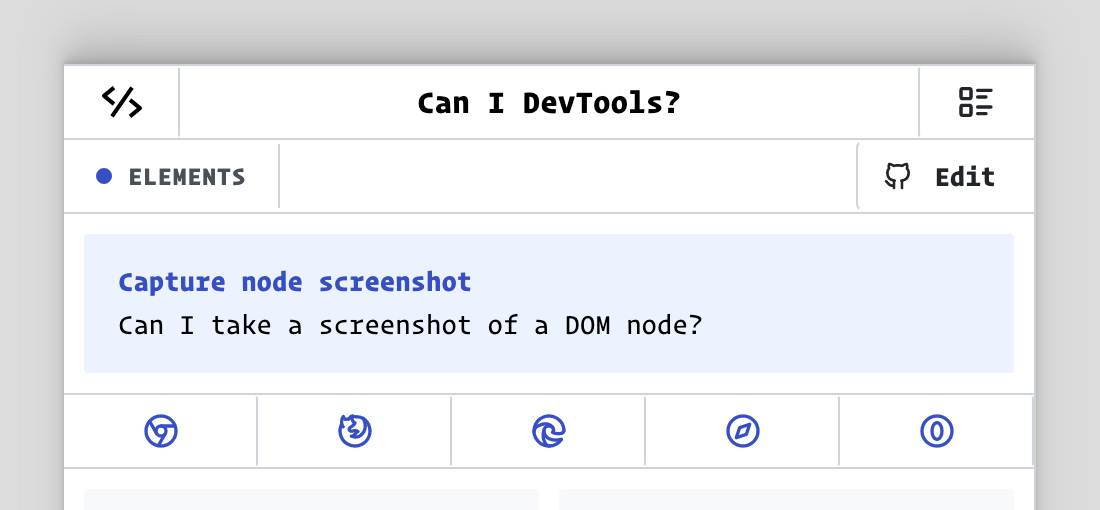
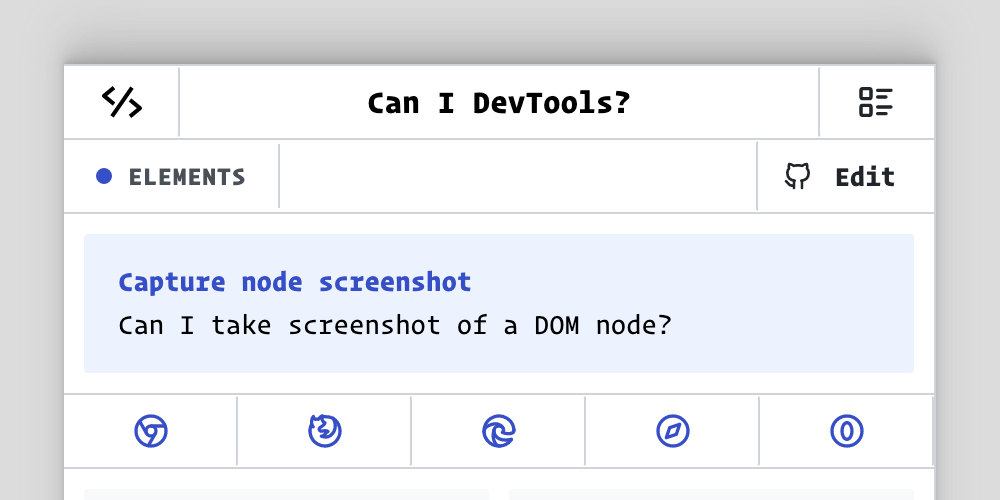
added node screenshot

Changed region(s): [[0.031, 0.12, 0.961, 1.0], [0.093, 0.54, 0.682, 0.69], [0.372, 0.18, 0.651, 0.24]]

diff --git a/app/routes/$feature.jsx b/app/routes/$feature.jsx
@@ -127,7 +127,6 @@ export default function Feature() {
 							sx={theme => ({ borderLeft: borderColor(theme) })}
 							size="sm"
 							variant="subtle"
-							radius="sm"
 							leftIcon={<IconBrandGithub size={16} />}
 							component="a"
 							href={`https://github.com/pankajparashar/canidev.tools/edit/main/features/${feature.Slug}.json`}

diff --git a/README.md b/README.md
@@ -151,7 +151,7 @@
  1. Open **Command** **Menu** (`Cmd+Shift+P` or `Ctrl+Shift+P`) & Run > "Capture full size screenshot" and press `Enter`.
 2. This will save a PNG image with url as the filename in the **Downloads** directory.
 ## 12. Capture node screenshot 
- Can I take a screenshot of a DOM node? 
+ Can I take screenshot of a DOM node? 
 - [Chrome](https://canidev.tools/capture-node-screenshot/chrome) 
  1. In the **Elements** panel, right click on the node and select "Capture node screenshot".
 2. It retains visible background colour of elements with no background colour applied.
